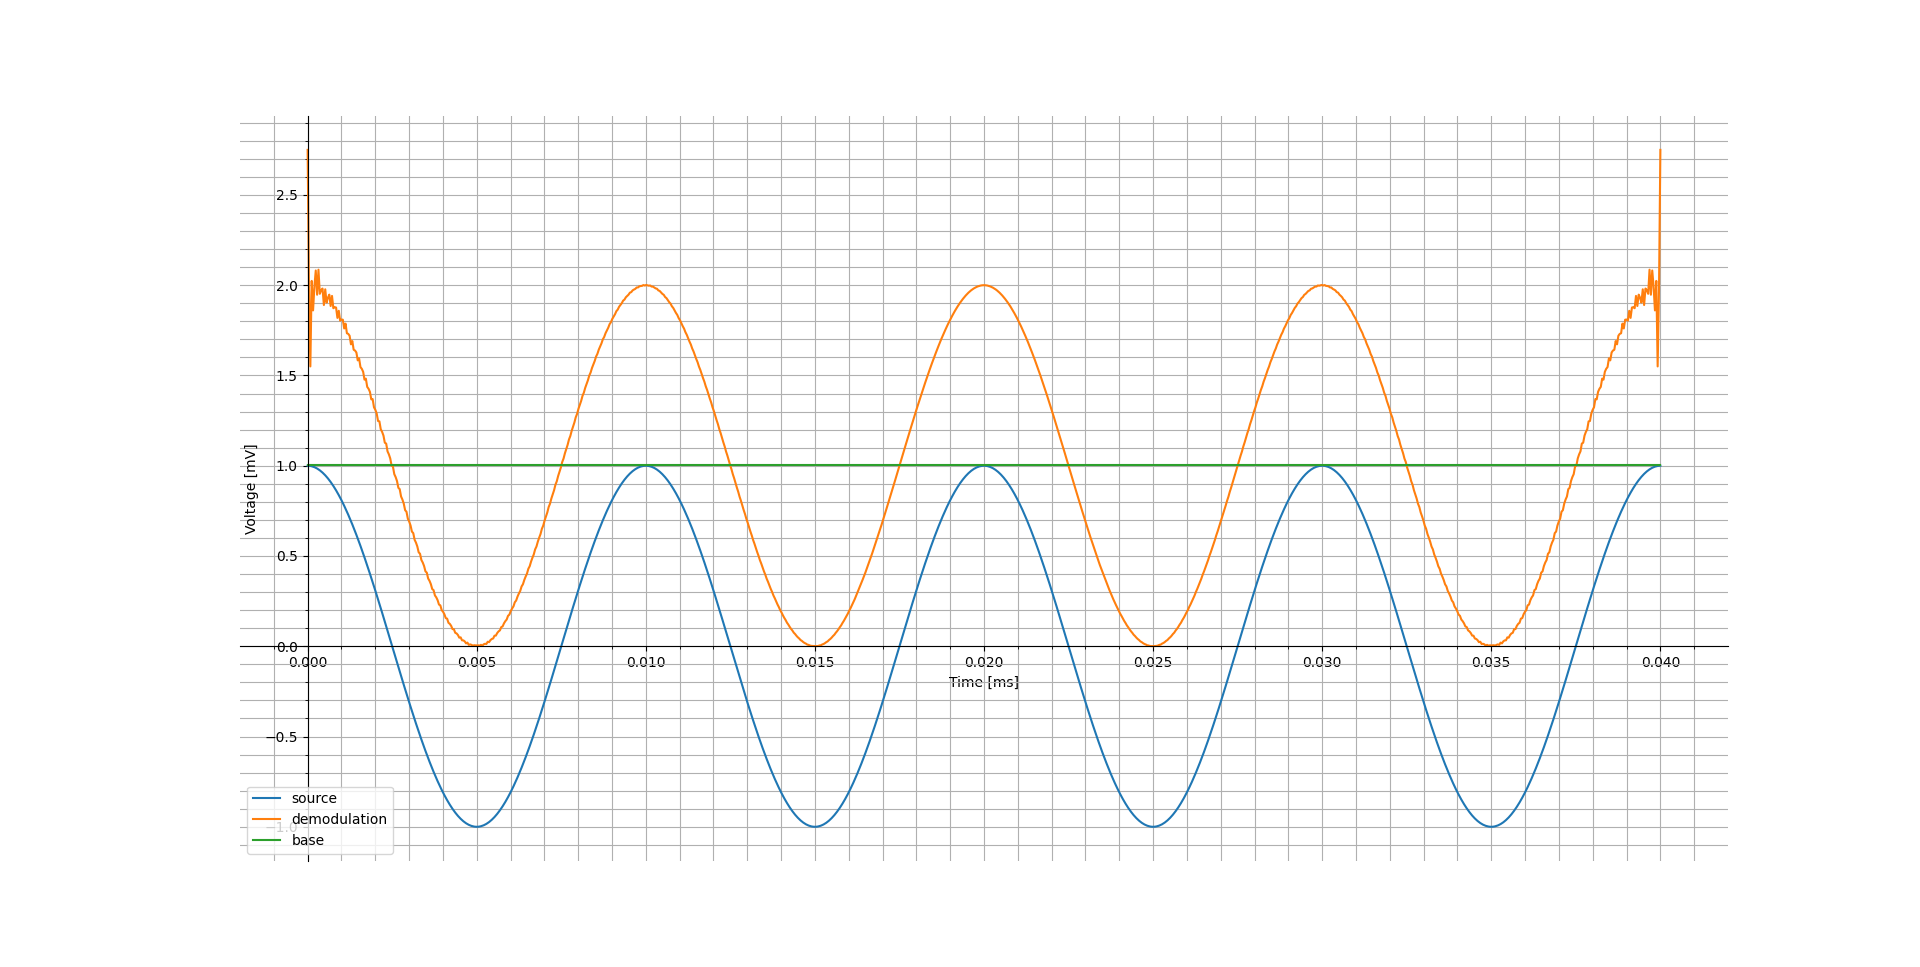
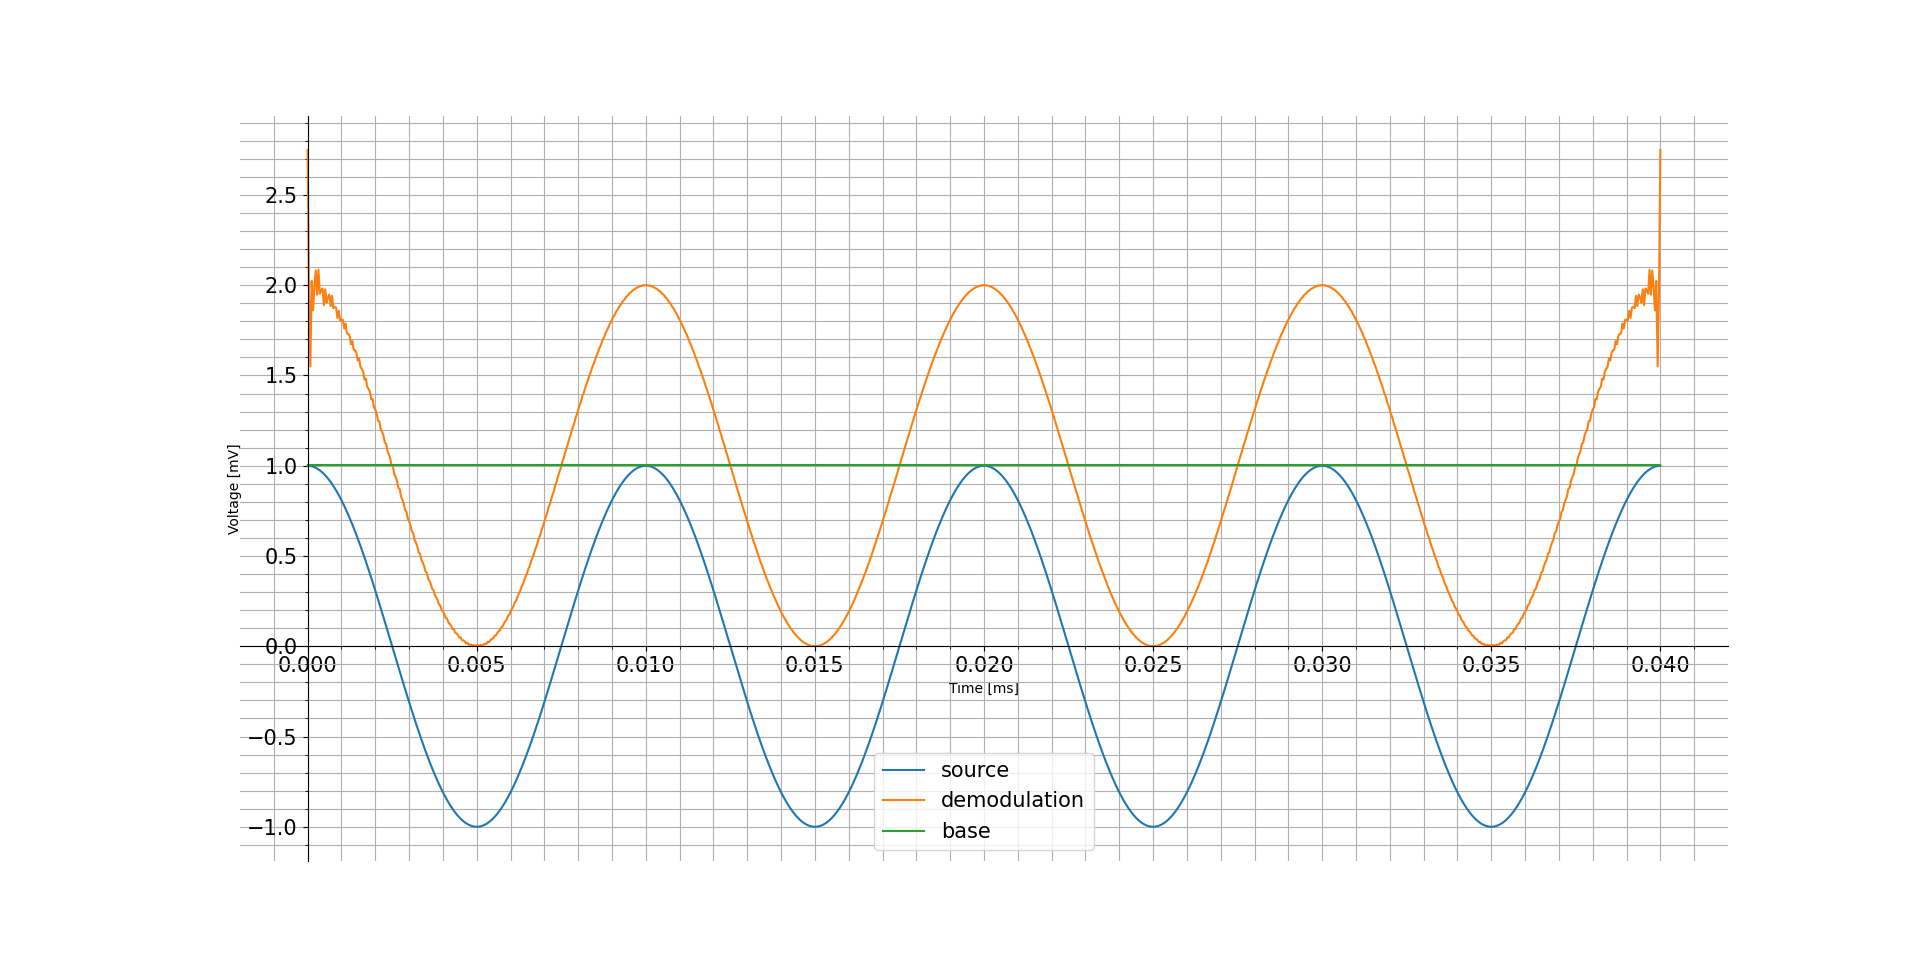
フォントサイズの変更

diff --git a/app.py b/app.py
@@ -8,6 +8,8 @@ import numpy as np
 import matplotlib.pyplot as plt
 from scipy import signal
 
+FONTSIZE = 15
+
 # 変調度
 m = 2
 
@@ -59,5 +61,7 @@ plt.grid(True, which='both', axis='both')
 plt.xlabel('Time [ms]')
 plt.ylabel('Voltage [mV]')
 
-plt.legend()
+plt.legend(fontsize=FONTSIZE)
+plt.xticks(fontsize=FONTSIZE)
+plt.yticks(fontsize=FONTSIZE)
 plt.show()
